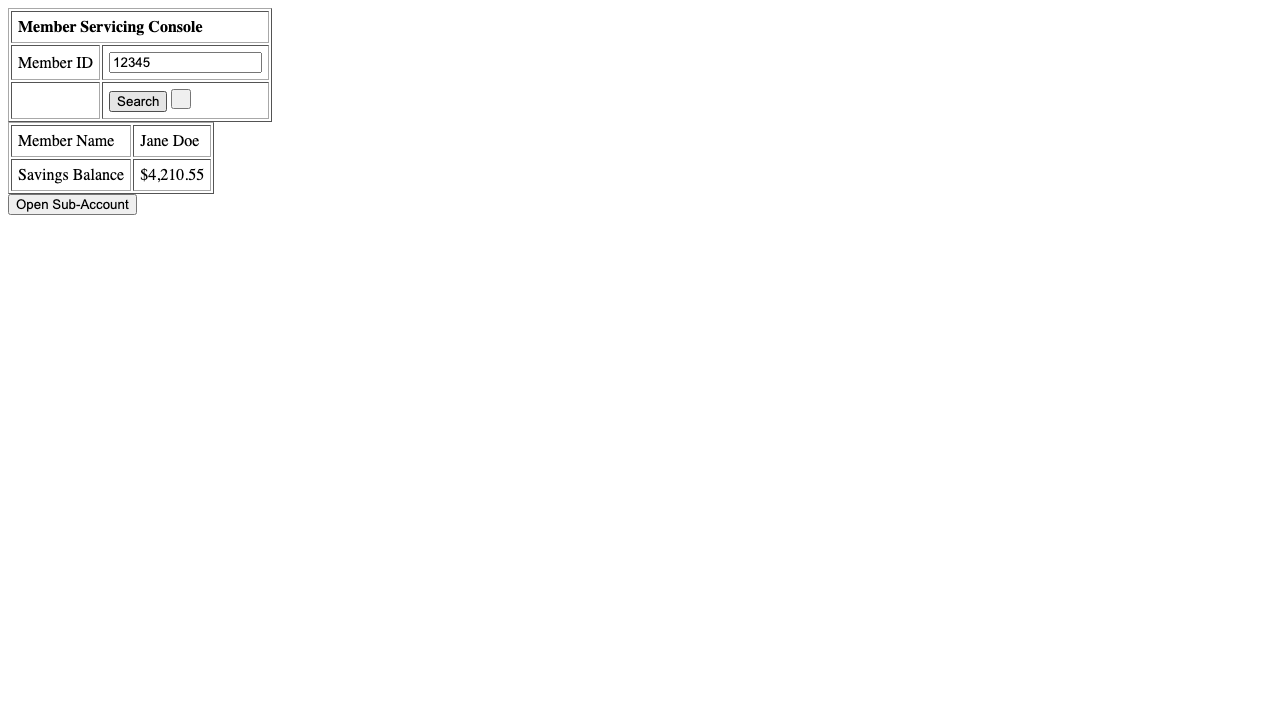
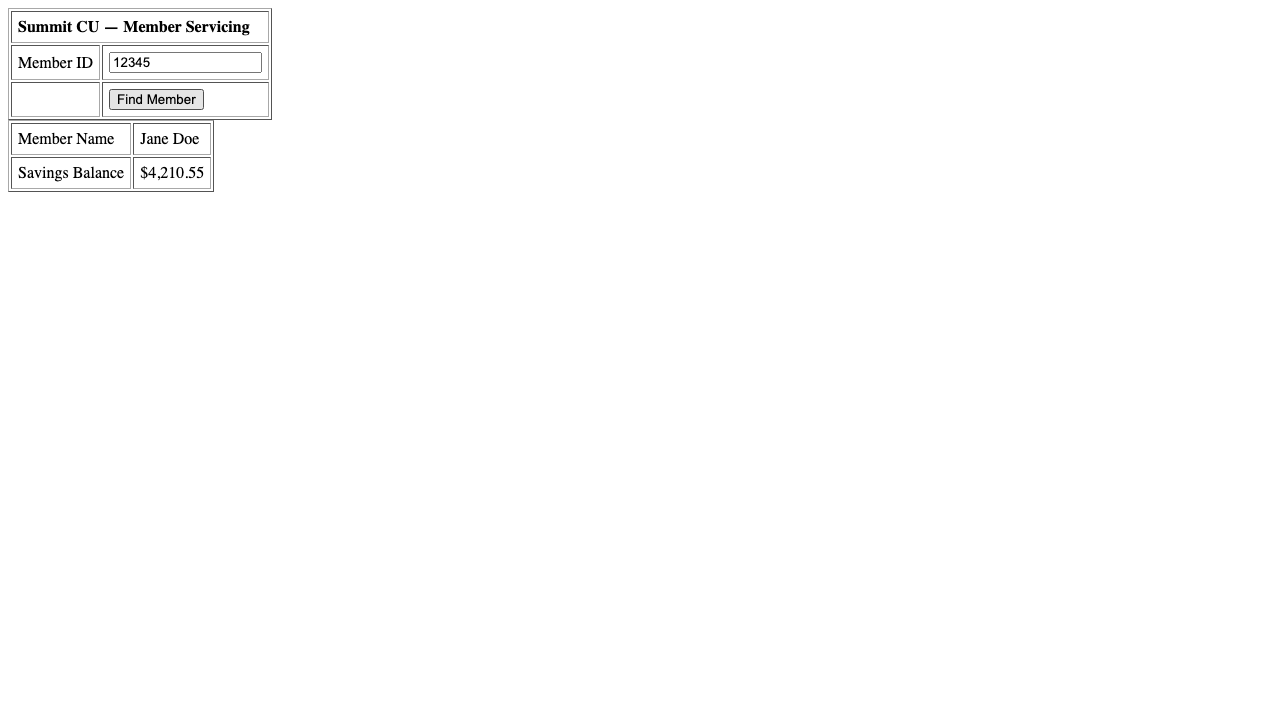
Demonstrate cross-tenant reuse; make tests run from a clean clone
- Add target/hostile_tenantB.html (the same vendor product, reskinned as a
  second institution with "Search" renamed "Find Member") and
  cua/reuse.py::specialize(), so a base capability is reused on another tenant
  via a one-line control override instead of being re-recorded.
- Wire `replay --overrides`, and record target + overrides in the replay
  evidence so a cross-tenant run is self-explanatory in the log.
- Add tests/test_tenant.py: the base artifact succeeds on tenant B with an
  override and fails loud (locator miss) without one; specialize leaves the
  base untouched.
- Add a root conftest.py so the documented `pytest -q` works from a fresh
  clone (repo root on sys.path).
- REPORT §4 now demonstrates multi-tenant reuse rather than only arguing it;
  README shows the reuse command. Correct guard.py header to §3.4.

Changed region(s): [[0.0, 0.1222, 0.2188, 0.3056], [0.0, 0.0306, 0.1875, 0.0611]]

diff --git a/target/hostile_tenantB.html b/target/hostile_tenantB.html
@@ -1,0 +1,46 @@
+<!doctype html>
+<html>
+<head><meta charset="utf-8"><title>Summit CU — Servicing Portal (legacy)</title></head>
+<body>
+<!-- TENANT B: the SAME vendor product as target/hostile.html, reskinned/rebranded the way a second
+     institution runs it. The behaviour and data are identical; the only difference is cosmetic —
+     the "Search" control is relabelled "Find Member". This is the stand-in for "two tenants running
+     the same vendor product" from the brief (§1, §3.7, §8): a base capability discovered on tenant A
+     should be REUSED here via a small per-tenant override, not re-recorded from scratch. The rename
+     is exactly the kind of per-tenant drift the design has to absorb (see cua/reuse.py). -->
+<table border="1" cellpadding="6">
+  <tr><td colspan="2"><b>Summit CU — Member Servicing</b></td></tr>
+  <tr>
+    <td>Member ID</td>
+    <td><input aria-label="Member ID" id="q" type="text"></td>
+  </tr>
+  <tr>
+    <td></td>
+    <td><button onclick="lookup()">Find Member</button></td>
+  </tr>
+</table>
+<div id="result"></div>
+<script>
+  var DB = {
+    "12345": {name: "Jane Doe",   savings: "$4,210.55"},
+    "67890": {name: "John Smith", savings: "$88.10"},
+    "55555": {name: "Ada Lovelace", savings: "$1,000.00"}
+  };
+  var DENIED = ["99999"];
+  function renderBalance(m) {
+    document.getElementById('result').innerHTML =
+      '<table border="1" cellpadding="6">' +
+      '<tr><td>Member Name</td><td>' + m.name + '</td></tr>' +
+      '<tr><td>Savings Balance</td><td>' + m.savings + '</td></tr>' +
+      '</table>';
+  }
+  function lookup() {
+    var id = document.getElementById('q').value.trim();
+    var r = document.getElementById('result');
+    if (DENIED.indexOf(id) !== -1) { r.innerHTML = '<div role="alert">Permission denied</div>'; return; }
+    if (DB[id]) { renderBalance(DB[id]); }
+    else { r.innerHTML = '<div role="alert">Record not found</div>'; }
+  }
+</script>
+</body>
+</html>

diff --git a/cua/reuse.py b/cua/reuse.py
@@ -1,0 +1,52 @@
+"""Cross-tenant reuse — specialize one base capability for a tenant variant (brief §3.7, §8).
+
+Hundreds of tenants run the same vendor product, reskinned and rebranded. Re-discovering the same
+flow per tenant is the brittle, doesn't-scale path the brief warns against. Instead the SAME base
+artifact is reused, and where a tenant renames a control the difference is a small, declared
+OVERRIDE — data, not a new recording.
+
+`specialize(base, overrides)` returns a new Artifact with the human-visible control identifiers
+remapped old -> new. What stays identical (the ordered steps, params, outcomes, provenance) is the
+shared capability; what changes is only the per-tenant naming. This is the reuse seam REPORT §4
+describes, made concrete.
+
+Drift that ISN'T overridden stays loud, never silent: the locator chain fails to resolve on rung 1
+(role+name) and either drops to a weaker rung — an early warning the run records — or misses
+entirely and the caller gets a hard failure. A renamed control never resolves to the *wrong*
+control, because role+name is an identity match, not a fuzzy one.
+"""
+from __future__ import annotations
+
+from .schema import Artifact
+
+
+def specialize(base: Artifact, control_overrides: dict[str, str]) -> Artifact:
+    """Return a per-tenant copy of `base` with control names/labels remapped by `control_overrides`.
+
+    The mapping is applied to every place a human-visible identifier appears — step targets, select
+    option labels, the checkpoint, extract row labels, and recovery/outcome detectors — so a rebrand
+    that renames a label in one place is handled in one place.
+    """
+    art = base.model_copy(deep=True)
+    m = control_overrides
+    for step in art.steps:
+        if step.target.name in m:
+            step.target.name = m[step.target.name]
+        if step.target.text in m:
+            step.target.text = m[step.target.text]
+        if step.option_label in m:
+            step.option_label = m[step.option_label]
+    if art.checkpoint.text in m:
+        art.checkpoint.text = m[art.checkpoint.text]
+    for ex in art.extracts:
+        if ex.row_label in m:
+            ex.row_label = m[ex.row_label]
+    for rec in art.recoverables:
+        if rec.action in m:
+            rec.action = m[rec.action]
+        if rec.detect in m:
+            rec.detect = m[rec.detect]
+    for bo in art.business_outcomes:
+        if bo.detect_alert_text in m:
+            bo.detect_alert_text = m[bo.detect_alert_text]
+    return art

diff --git a/cua/cli.py b/cua/cli.py
@@ -22,6 +22,7 @@ from .evidence.writer import EvidenceWriter
 from .llm.client import LLMClient
 from .policy.guard import Guard, Policy
 from .replay.engine import ReplayConfig, replay
+from .reuse import specialize
 from .schema import (Artifact, BusinessOutcome, Checkpoint, Extract, Recoverable)
 from .surface.web import WebSurface
 
@@ -84,6 +85,9 @@ def cmd_replay(args) -> int:
         print(f"no such capability: {args.capability}", file=sys.stderr)
         return 2
     art = Artifact.model_validate_json(art_path.read_text())
+    overrides = json.loads(args.overrides) if args.overrides else {}
+    if overrides:                                  # reuse this capability on a tenant variant
+        art = specialize(art, overrides)
     if args.target:                                # allow retargeting the same capability
         art.provenance.target = args.target
     params = json.loads(args.params) if args.params else {}
@@ -94,7 +98,7 @@ def cmd_replay(args) -> int:
         res = replay(surf, art, params, cfg)
         if args.evidence:                              # persist the replay log while the page is live
             EvidenceWriter(args.evidence).write_replay(art, params, res, args.capability,
-                                                        screenshot_surface=surf)
+                                                        screenshot_surface=surf, overrides=overrides)
     finally:
         surf.close()
     print(res.model_dump_json(indent=2, exclude_none=True))
@@ -128,6 +132,8 @@ def main(argv=None) -> int:
     r.add_argument("capability", help="capability name in catalogs/capabilities/")
     r.add_argument("--params", help="JSON object of param values")
     r.add_argument("--target", help="override the target URL")
+    r.add_argument("--overrides", help="JSON object of per-tenant control-name overrides "
+                                       "(e.g. '{\"Search\":\"Find Member\"}')")
     r.add_argument("--timeout-ms", type=int, default=3000)
     r.add_argument("--evidence", nargs="?", const="evidence", default=None,
                    help="persist a redacted replay log (default dir: evidence/)")

diff --git a/tests/test_tenant.py b/tests/test_tenant.py
@@ -1,0 +1,33 @@
+"""Cross-tenant reuse (brief §3.7, §8).
+
+The SAME base capability, discovered on tenant A, is applied to a reskinned tenant-B surface that
+renamed "Search" to "Find Member". Two things are proven:
+  - without an override, the renamed control is per-tenant drift and replay fails LOUD (a hard
+    failure the caller sees), never a silent wrong action;
+  - with one declared override the base artifact is reused as-is — no re-discovery.
+"""
+from __future__ import annotations
+
+from cua.replay.engine import replay
+from cua.reuse import specialize
+from cua.schema import Status
+
+
+def test_tenant_b_drifts_without_override(surf, lookup_artifact, tenant_b_url):
+    lookup_artifact.provenance.target = tenant_b_url
+    res = replay(surf, lookup_artifact, {"member_id": "12345"})
+    assert res.status is Status.HARD_FAILURE          # renamed control -> locator miss, surfaced
+    assert res.observed == "locator miss"
+
+
+def test_tenant_b_reused_with_override(surf, lookup_artifact, tenant_b_url):
+    art = specialize(lookup_artifact, {"Search": "Find Member"})
+    art.provenance.target = tenant_b_url
+    res = replay(surf, art, {"member_id": "12345"})
+    assert res.status is Status.SUCCESS               # one override reuses the capability, no re-record
+    assert res.outputs["savings_balance"] == "$4,210.55"
+
+
+def test_specialize_does_not_mutate_base(lookup_artifact):
+    specialize(lookup_artifact, {"Search": "Find Member"})
+    assert lookup_artifact.steps[1].target.name == "Search"   # base capability is left intact

diff --git a/cua/evidence/writer.py b/cua/evidence/writer.py
@@ -61,19 +61,24 @@ class EvidenceWriter:
         return paths
 
     def write_replay(self, art: Artifact, params: dict[str, str], result: Result, name: str,
-                     screenshot_surface=None) -> dict[str, str]:
+                     screenshot_surface=None, overrides: dict[str, str] | None = None) -> dict[str, str]:
         """Append one replay run to <name>.replay.jsonl and snapshot the outcome.
 
         Append (not overwrite) so a single evidence file can show several runs side by side — e.g.
         a success and a `business_outcome` — which is exactly the "one replay that hits an error/
         exceptional state" the brief wants demonstrated. Params and the whole record go through the
         redactor: a param could carry sensitive data, and evidence on disk must never leak it.
+
+        `target` and `overrides` are recorded too, so a cross-tenant replay (same capability, a
+        variant surface, a per-tenant control override) is self-explanatory in the log.
         """
         log_path = self.root / f"{name}.replay.jsonl"
         record = {
             "ts": time.strftime("%Y-%m-%dT%H:%M:%SZ", time.gmtime()),
             "capability": art.name,
+            "target": art.provenance.target if art.provenance else None,
             "params": params,
+            "overrides": overrides or {},
             "executed_steps": [
                 {"op": s.op, "role": s.target.role, "name": s.target.name} for s in art.steps
             ],

diff --git a/tests/conftest.py b/tests/conftest.py
@@ -13,11 +13,17 @@ from cua.surface.web import WebSurface
 
 ROOT = pathlib.Path(__file__).resolve().parent.parent
 TARGET_URL = (ROOT / "target" / "hostile.html").as_uri()
+TENANT_B_URL = (ROOT / "target" / "hostile_tenantB.html").as_uri()
 
 
 @pytest.fixture(scope="session")
 def target_url() -> str:
     return TARGET_URL
+
+
+@pytest.fixture(scope="session")
+def tenant_b_url() -> str:
+    return TENANT_B_URL
 
 
 @pytest.fixture

diff --git a/cua/policy/guard.py b/cua/policy/guard.py
@@ -1,4 +1,4 @@
-"""The safety choke point (brief §3.6).
+"""The safety choke point (brief §3.4).
 
 Every action an agent (or the discovery LLM) wants to take passes through exactly one Guard.
 Single site on purpose: a guardrail scattered across call sites is a guardrail with gaps. Rules

diff --git a/conftest.py b/conftest.py
@@ -1,0 +1,4 @@
+"""Root conftest — present so `pytest` run from the repo root puts the repo root on `sys.path`,
+which lets the tests `import cua` without an install step or `PYTHONPATH`. This is what makes the
+documented `pytest -q` work from a fresh clone.
+"""

diff --git a/REPORT.md b/REPORT.md
@@ -29,8 +29,9 @@ implementation.
 - *Rules as data.* The allowlist, risky-control list, and discovery tasks live in
   `catalogs/*.yaml`, so a reviewer/auditor reads and changes policy without touching Python.
 - *One concrete surface, real depth.* Per the brief, a single vertical slice touching every core
-  requirement, with the load-bearing pieces (schema, replay+taxonomy, escalation) done for real and
-  heterogeneity/multi-tenant argued at the seam rather than built (§4).
+  requirement, with the load-bearing pieces (schema, replay+taxonomy, escalation) done for real,
+  surface heterogeneity argued at the seam, and multi-tenant reuse *demonstrated* on a second
+  reskinned surface (§4).
 
 ## 2. Artifact schema
 
@@ -92,17 +93,25 @@ missing the select.
 
 ## 4. Heterogeneity & multi-tenant
 
-This is argued at the seam we built, per the brief's "design, don't build" scope for §3.7.
+Surface heterogeneity is argued at the seam (per the brief's "design, don't build" scope for §3.7);
+multi-tenant reuse is **demonstrated** on a second surface.
 - **Other surfaces.** Everything above `Surface` (schema, replay, discovery, result contract) is
   surface-agnostic. `WebSurface` is the built implementation; a `LegacyWebSurface` (e.g. Citrix/HTML
   frames) or `DesktopSurface` (UIA/AX accessibility APIs — the desktop equivalent of the a11y tree,
   with `coords` as the vision fallback) slot in *without touching anything above the seam*. Because
   perception is already role+name+checkpoint, the artifact format needs no change.
-- **Multi-tenant reuse.** The same canonicalization that produces params is the reuse seam: one
-  discovered `open_sub_account` artifact runs against any institution's instance of that app by
-  supplying different param values and retargeting the URL (`replay --target ...`), no
-  re-discovery. Per-tenant divergence (a renamed button) shows up as a locator-rung downgrade — a
-  signal to re-discover that one flow, not a silent break.
+- **Multi-tenant reuse (demonstrated).** `target/hostile_tenantB.html` is the *same* vendor product
+  reskinned the way a second institution runs it, with `Search` relabelled `Find Member`.
+  `cua/reuse.py::specialize(base, overrides)` reuses the tenant-A capability on tenant B by applying
+  a one-line control override — no re-discovery. Retargeting is `replay --target ...`; the override
+  is `replay --overrides '{"Search":"Find Member"}'`. Both directions are tested
+  (`tests/test_tenant.py`): with the override the base artifact **succeeds** on tenant B; *without*
+  it, the renamed control is drift that **fails loud** (rung-1 role+name miss → hard failure the
+  caller sees), never a silent wrong action — because role+name is an identity match, not fuzzy. So
+  per-tenant divergence is either absorbed by a declared override or surfaced as a clear signal to
+  add one / re-discover that single flow; it is never a silent break. (A softer rewording that still
+  matches a lower locator rung shows up first as a rung *downgrade* recorded on the run — an early
+  warning before it ever fails.)
 
 ## 5. Escalation & handoff
 

diff --git a/README.md b/README.md
@@ -54,6 +54,12 @@ python -m cua.cli replay lookup_member_savings_balance --params '{"member_id":"9
 # A longer, 6-step flow with a dropdown and an irreversible final step:
 python -m cua.cli discover open_sub_account --target "$TARGET"
 python -m cua.cli replay  open_sub_account --params '{"member_id":"12345","account_type":"Checking","initial_deposit":"500"}'
+
+# 4) REUSE ACROSS TENANTS — run the SAME capability on a second institution's reskinned copy of the
+#    app (target/hostile_tenantB.html renamed "Search" to "Find Member"). One override, no re-record.
+TENANT_B="file://$(pwd)/target/hostile_tenantB.html"
+python -m cua.cli replay lookup_member_savings_balance --params '{"member_id":"12345"}' \
+  --target "$TENANT_B" --overrides '{"Search":"Find Member"}'
 ```
 
 A successful replay prints a JSON result — the status plus the values it read back, e.g.
@@ -92,6 +98,7 @@ cua/
   llm/               client.py — talks to the model; used only during discovery
   discovery/         agent.py — the record-once loop; stops loudly rather than dropping a step;
                      turns the concrete values typed during discovery into named inputs; replays its own output before saving it
+  reuse.py           specialize() — reuse one recording on another tenant's reskinned copy via a small override
   escalation/        handoff.py — who's in control, the structured "I'm stuck" request, and same-session takeover
   evidence/          writer.py — redacted logs, the saved recording, a cost summary, and screenshots
   cli.py             discover / replay / catalog
@@ -99,7 +106,8 @@ catalogs/
   policy.yaml        allowlist and risky-action names (data a reviewer can read and edit)
   tasks.yaml         discovery jobs (the goal plus its typed inputs and outputs) as data
   capabilities/      saved recordings land here (generated; git-ignored)
-target/hostile.html  the deliberately messy legacy page I test against
+target/hostile.html          the deliberately messy legacy page I test against
+target/hostile_tenantB.html  the same page reskinned as a second tenant (renamed control) for the reuse demo
 tests/               pytest suite
 evidence/            example discovery and replay logs (generated; git-ignored)
 ```
